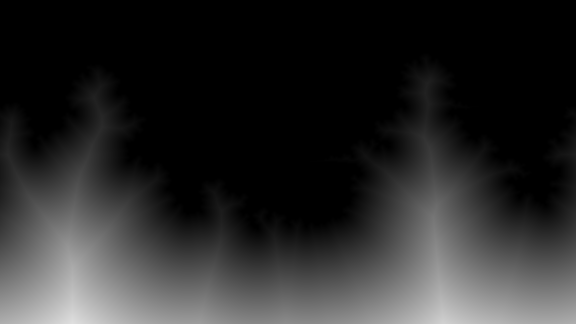
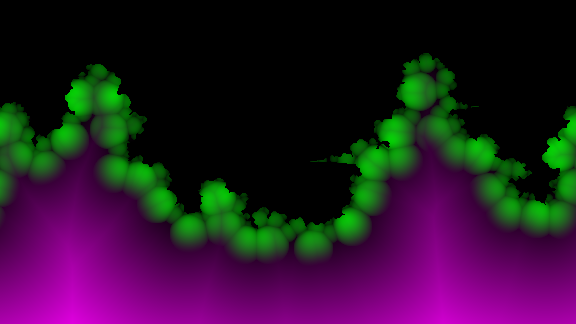
feat: bake cauliflower lumps into cloud SDF, single moon light source
SDF baker now stamps dome lumps near the outline into the G channel;
cloud shader adds them to thickness via _LumpStrength.

diff --git a/Assets/Editor/sdf.cs b/Assets/Editor/sdf.cs
@@ -1,32 +1,38 @@
+using System;
+using System.Collections.Generic;
 using System.IO;
 using Unity.Mathematics;
 using UnityEditor;
 using UnityEngine;
 
-public static class sdf
-{
+public static class sdf {
 	[MenuItem("Tools/GenerateSDF")]
 	static void generate() {
 		int R = 180;
-		
+
 		var tex = Selection.activeObject as Texture2D;
 		if (tex == null) return;
-		var col = tex.GetPixels();
-		var distances = new float[col.Length];
-		var width = tex.width;
-		var height = tex.height;
+		var col          = tex.GetPixels();
+		var distances    = new float[col.Length];
+		var rawDistances = new float[col.Length];
+		var width        = tex.width;
+		var height       = tex.height;
 		for (int x = 0; x < width; x++) {
 			for (int y = 0; y < height; y++) {
-				var index = y * width + x;
+				var   index   = y * width + x;
 				float minDist = (float)R;
-				if (col[index].a == 0) { distances[index] = 0; continue; }
+				if (col[index].a == 0) {
+					distances[index]    = 0;
+					rawDistances[index] = 0;
+					continue;
+				}
 
 				for (int dx = -R; dx <= R; dx++) {
 					for (int dy = -R; dy <= R; dy++) {
 						var nx = x + dx;
 						var ny = y + dy;
-						if(ny < 0 || ny >= height) continue;
-						if (nx < 0) nx += width;
+						if (ny < 0 || ny >= height) continue;
+						if (nx      < 0) nx      += width;
 						else if (nx >= width) nx -= width;
 						var sampleIndex = ny * width + nx;
 						if (col[sampleIndex].a == 0) {
@@ -35,18 +41,93 @@ public static class sdf
 						}
 					}
 				}
-				distances[index] = minDist / (float)R;
+
+				distances[index]    = minDist / (float)R;
+				rawDistances[index] = minDist;
 			}
 		}
-		
+
+
+		var radii    = new int[3] { 20, 10, 5 };
+		var minInset = new int[3] { 12, 5, 1 };
+		var maxInset = new int[3] { 26, 12, 5 };
+		var gaps     = new int[3] { 26, 13, 7 };
+		var indexes  = new int[3];
+
+		var random      = new System.Random(1234);
+		var domeHeights = new float[col.Length];
+
+		for (int size = 0; size < 3; size++) {
+			int currentIndex = 0;
+			var candidates   = new int[col.Length];
+
+			for (var index = 0; index < candidates.Length; index++) {
+				if (rawDistances[index] < minInset[size] || rawDistances[index] > maxInset[size]) continue;
+				candidates[currentIndex] = index;
+				currentIndex++;
+			}
+
+
+			for (var index = currentIndex - 1; index >= 0; index--) {
+				var randomIndex = random.Next(0, index + 1);
+				(candidates[randomIndex], candidates[index]) = (candidates[index], candidates[randomIndex]);
+			}
+
+
+			List<int> accepted = new List<int>();
+			for (var index = 0; index < currentIndex; index++) {
+				var pos = new Vector2(Mathf.Repeat(candidates[index], width),
+				                      Mathf.FloorToInt(candidates[index] / (float)width));
+				var tooClose = false;
+				foreach (var compare in accepted) {
+					var dx = Mathf.Abs(Mathf.Repeat(compare, width) - pos.x);
+					dx = Mathf.Min(dx, width - dx);
+					var comparePos = new Vector2(dx, Mathf.FloorToInt(compare / (float)width));
+					if (Mathf.Pow(comparePos.x, 2f) + Mathf.Pow(comparePos.y - pos.y, 2f) < Mathf.Pow(gaps[size], 2f))
+						tooClose = true;
+				}
+
+				if (!tooClose) accepted.Add(candidates[index]);
+			}
+
+
+			foreach (var index in accepted) {
+				var pos = new Vector2(Mathf.Repeat(index, width),
+				                      Mathf.FloorToInt(index / (float)width));
+				for (int dx = -radii[size]; dx <= radii[size]; dx++) {
+					for (int dy = -radii[size]; dy <= radii[size]; dy++) {
+						var newPos = new Vector2(Mathf.Repeat(pos.x + dx, width), pos.y + dy);
+						if (newPos.y < 0 || newPos.y >= height) continue;
+						var t = Mathf.Pow(Mathf.Abs(dx), 2f) + Mathf.Pow(Mathf.Abs(dy), 2f);
+						if (t < Mathf.Pow(radii[size], 2f))
+							domeHeights[(int)newPos.y * width + (int)newPos.x] =
+								Mathf.Max(Mathf.Sqrt(Mathf.Pow(radii[size], 2f) - t),
+								          domeHeights[(int)newPos.y * width     + (int)newPos.x]);
+					}
+				}
+			}
+		}
+
+		for (int y = 0; y < height; y++) {
+			for (int x = 0; x < width; x++) {
+				var currentIndex = y * width + x;
+				if (col[currentIndex].a == 0) {
+					domeHeights[currentIndex] = 0;
+					continue;
+				}
+				domeHeights[currentIndex] *= Mathf.Clamp(1 - rawDistances[currentIndex] / 40, 0, 1);
+			}
+		}
+
 		var newTex = new Texture2D(width, height, TextureFormat.RGBA32, false);
 		for (int x = 0; x < width; x++) {
 			for (int y = 0; y < height; y++) {
 				var index = y * width + x;
 				var dist  = distances[index];
-				newTex.SetPixel(x, y, new Color(dist, dist, dist, 1.0f));
+				newTex.SetPixel(x, y, new Color(dist, domeHeights[index] / 20, dist, 1.0f));
 			}
 		}
+
 		newTex.Apply();
 		var path    = AssetDatabase.GetAssetPath(tex);
 		var replace = path.Replace(".png", "_sdf.png");

diff --git a/Assets/Scripts/Effects/MoonPositionSetter.cs b/Assets/Scripts/Effects/MoonPositionSetter.cs
@@ -7,8 +7,7 @@ public class MoonPositionSetter : MonoBehaviour {
 	[SerializeField] private SpriteRenderer sr;
 	
 	[ExecuteAlways]
-    void Update()
-    {
+    void Update() {
 	    Shader.SetGlobalVector("_MoonPos", moon.GetComponent<SpriteRenderer>().bounds.center);
     }
 }
